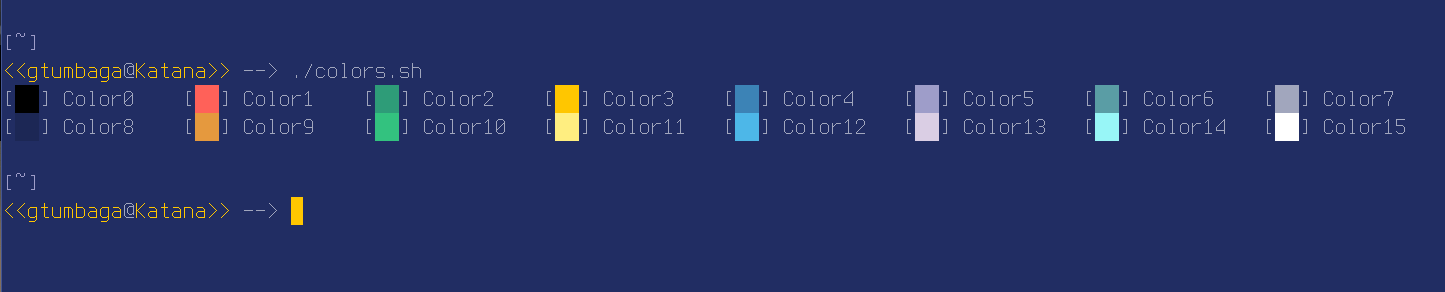
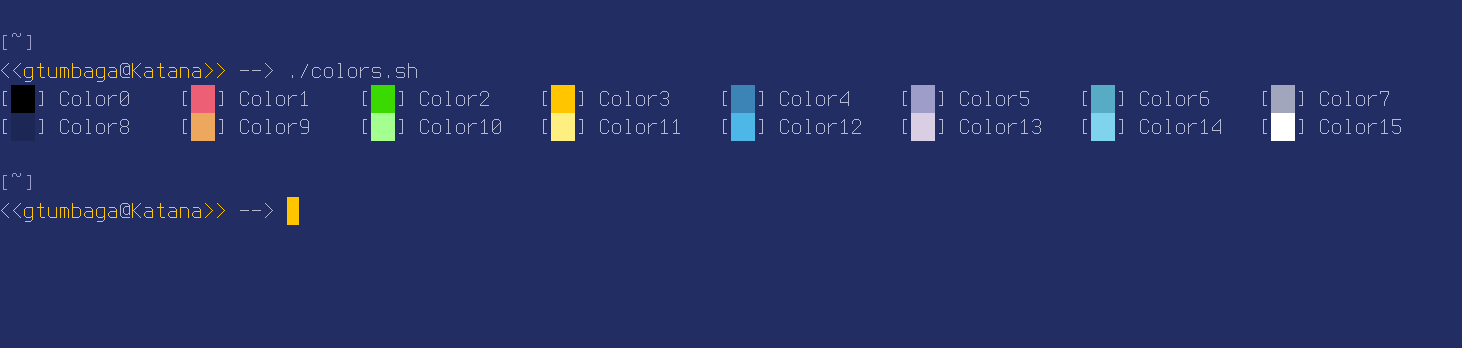
modified the colors a bit, changed up the cyan to one from stripe on one of the code examples, and made the white a little brigther

diff --git a/README.md b/README.md
@@ -43,7 +43,7 @@ Here are the colors used:
 
 | GUI   Color   |  RGB Value   | HEX Value
 |--------------:|:-------------|:----------|
-| Foreground    |  161,166,189 | #A1A6BD   |
+| Foreground    |  181,186,209 | #B5BAD1   |
 | Background    |  33,45,99    | #212D63   |
 | Bold          |  255,255,255 | #FFFFFF   |
 | Selection     |  255,198,0   | #FFC600   |
@@ -54,7 +54,7 @@ Here are the colors used:
 |--------------:|:-------------|:----------|
 | Black         |  0,0,0       | #000000   |
 | BoldBlack     |  28,39,85    | #1C2755   |
-| Red           |  255,97,89   | #FF6159   |
+| Red           |  237,95,116  | #ED5F74   |
 | BoldRed       |  229,153,62  | #E5993E   |
 | Green         |  46,156,120  | #2E9C78   |
 | BoldGreen     |  51,194,127  | #33C27F   |
@@ -64,9 +64,9 @@ Here are the colors used:
 | BoldBlue      |  77,183,232  | #4DB7E8   |
 | Magenta       |  158,157,201 | #9E9DC9   |
 | BoldMagenta   |  218,206,228 | #DACEE4   |
-| Cyan          |  90,157,165  | #5A9DA5   |
-| BoldCyan      |  152,246,247 | #98F6F7   |
-| White         |  161,166,189 | #A1A6BD   |
+| Cyan          |  87,171,197  | #51ABC5   |
+| BoldCyan      |  127,211,237 | #7FD3ED   |
+| White         |  181,186,209 | #B5BAD1   |
 | BoldWhite     |  255,255,255 | #FFFFFF   |
 
 ---
